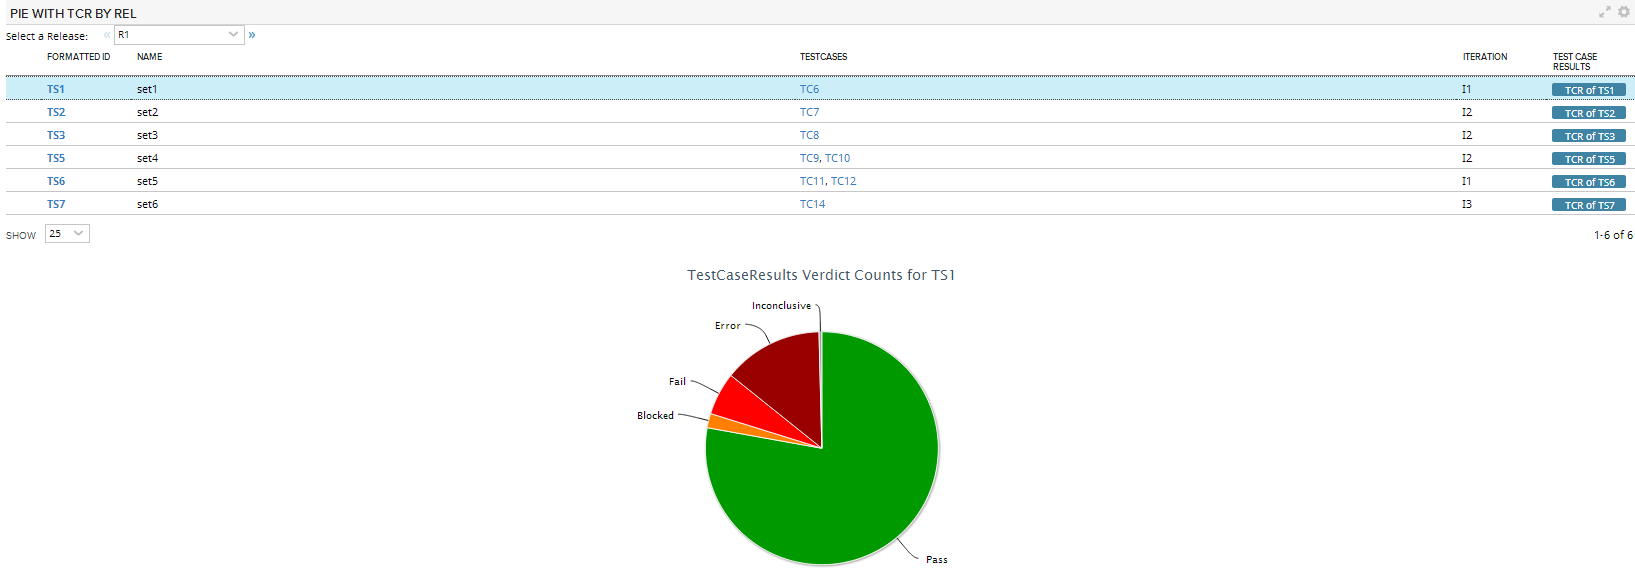
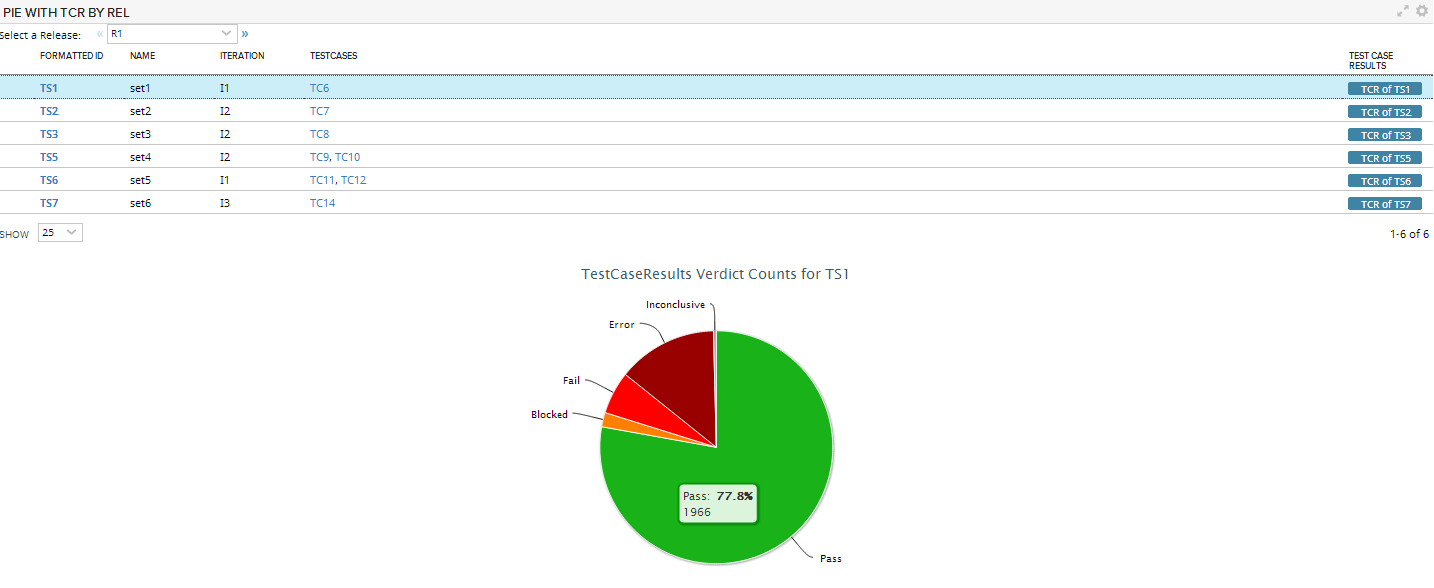
rearranged grid columns

Changed region(s): [[0.0, 0.0, 1.0, 0.4352], [0.3682, 0.4352, 0.583, 0.9948], [0.9819, 0.0, 1.0, 0.0311]]

diff --git a/deploy/App.html b/deploy/App.html
@@ -40,7 +40,6 @@
     
     _onTestSetsLoaded:function(store, records){
 	var setsWithCases = [];
-        //var testsets = [];
         var that = this;
         var promises = [];
 	_.each(records, function(testset){
@@ -110,7 +109,10 @@
 		tpl: Ext.create('Rally.ui.renderer.template.FormattedIDTemplate') 
 	    },
 	    {
-	      text: 'Name', dataIndex: 'Name', flex: 1
+	      text: 'Name', dataIndex: 'Name',
+	    },
+	     {
+	      text: 'Iteration', dataIndex: 'Iteration'
 	    },
 	    {
 		text: 'TestCases', dataIndex: 'TestCases', flex:1,
@@ -123,15 +125,11 @@
 		}
 	    },
 	    {
-	      text: 'Iteration', dataIndex: 'Iteration'
-	    },
-	    {
 	      text: 'Test Case Results',
 	      renderer: function (value, model, record) {
 		  console.log('record', record)
 		  var id = Ext.id();
 		  Ext.defer(function () {
-		      //Ext.widget('button', {
 		      Ext.create('Rally.ui.Button',{
 			  renderTo: id,
 			  text: 'TCR of ' + record.data.FormattedID,
@@ -149,7 +147,7 @@
     },
     
     _seeResults: function(testSetRecord) {
-      var testset = testSetRecord._ref;
+      this._testset = testSetRecord;
       this._myMask = new Ext.LoadMask(Ext.getBody(), {msg:"Please wait.This may take long if you have thousands of results..."});
       this._myMask.show();
       this._myStore = Ext.create('Rally.data.WsapiDataStore', {
@@ -159,7 +157,7 @@
 	filters:[
 	 {
 	   property: 'TestSet',
-	   value: testset
+	   value: this._testset._ref
 	 }
 	],
 	autoLoad: true,
@@ -224,7 +222,7 @@
 				type: 'pie'
 			    },
 			    title: {
-				text: 'TestCaseResults Verdict Counts',
+				text: 'TestCaseResults Verdict Counts for ' + this._testset.FormattedID,
 				align: 'center'
 			    },
 			    tooltip: {

diff --git a/src/App.js b/src/App.js
@@ -29,7 +29,6 @@
     
     _onTestSetsLoaded:function(store, records){
 	var setsWithCases = [];
-        //var testsets = [];
         var that = this;
         var promises = [];
 	_.each(records, function(testset){
@@ -99,7 +98,10 @@
 		tpl: Ext.create('Rally.ui.renderer.template.FormattedIDTemplate') 
 	    },
 	    {
-	      text: 'Name', dataIndex: 'Name', flex: 1
+	      text: 'Name', dataIndex: 'Name',
+	    },
+	     {
+	      text: 'Iteration', dataIndex: 'Iteration'
 	    },
 	    {
 		text: 'TestCases', dataIndex: 'TestCases', flex:1,
@@ -112,15 +114,11 @@
 		}
 	    },
 	    {
-	      text: 'Iteration', dataIndex: 'Iteration'
-	    },
-	    {
 	      text: 'Test Case Results',
 	      renderer: function (value, model, record) {
 		  console.log('record', record)
 		  var id = Ext.id();
 		  Ext.defer(function () {
-		      //Ext.widget('button', {
 		      Ext.create('Rally.ui.Button',{
 			  renderTo: id,
 			  text: 'TCR of ' + record.data.FormattedID,
@@ -138,7 +136,7 @@
     },
     
     _seeResults: function(testSetRecord) {
-      var testset = testSetRecord._ref;
+      this._testset = testSetRecord;
       this._myMask = new Ext.LoadMask(Ext.getBody(), {msg:"Please wait.This may take long if you have thousands of results..."});
       this._myMask.show();
       this._myStore = Ext.create('Rally.data.WsapiDataStore', {
@@ -148,7 +146,7 @@
 	filters:[
 	 {
 	   property: 'TestSet',
-	   value: testset
+	   value: this._testset._ref
 	 }
 	],
 	autoLoad: true,
@@ -213,7 +211,7 @@
 				type: 'pie'
 			    },
 			    title: {
-				text: 'TestCaseResults Verdict Counts',
+				text: 'TestCaseResults Verdict Counts for ' + this._testset.FormattedID,
 				align: 'center'
 			    },
 			    tooltip: {
